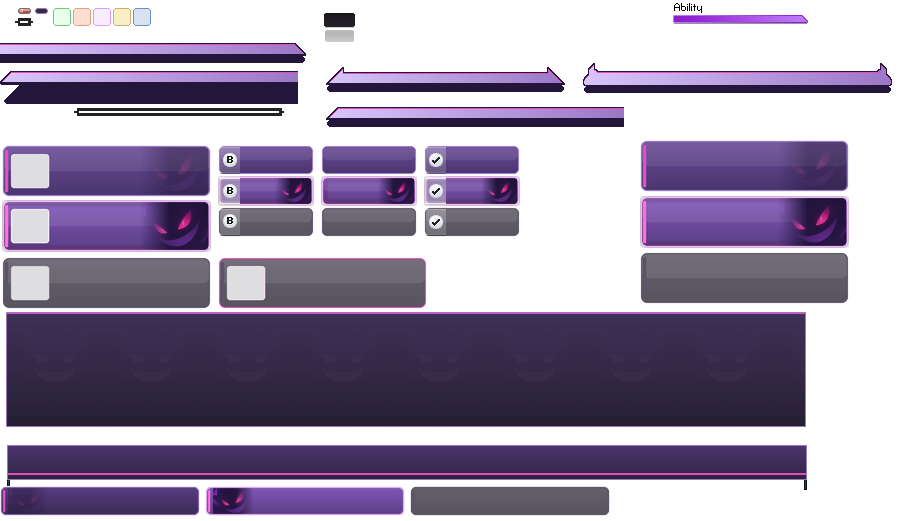
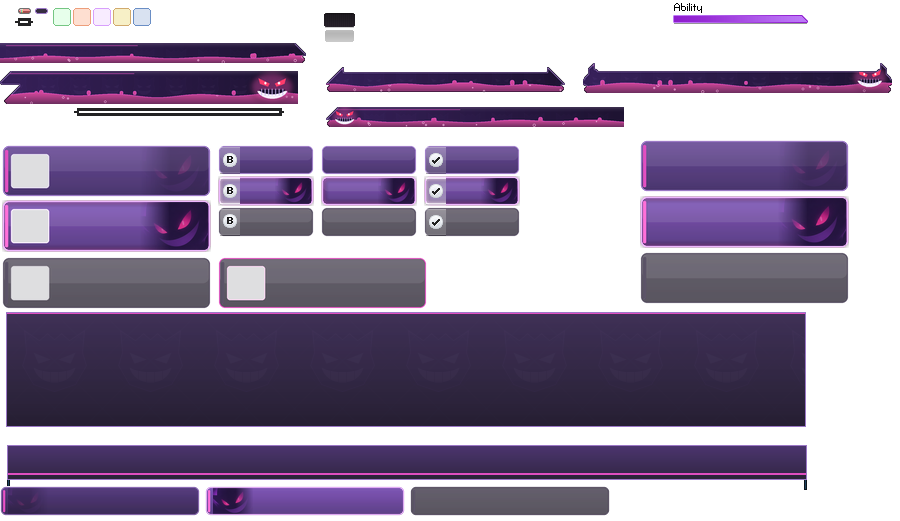
style: Rediseña los paneles de combate

Changed region(s): [[0.0, 0.0614, 0.9956, 0.2457]]

diff --git a/herramientas/battle_plates.py b/herramientas/battle_plates.py
@@ -1,0 +1,161 @@
+import sys
+import math
+import random
+from PIL import Image, ImageDraw, ImageFilter
+
+base_src, dst = sys.argv[1], sys.argv[2]
+pattern_src = sys.argv[3] if len(sys.argv) > 3 else None
+
+base = Image.open(base_src).convert("RGBA")
+im = Image.open(dst).convert("RGBA")
+pat = Image.open(pattern_src).convert("RGBA") if pattern_src else None
+
+
+def hx(h, a=255):
+    h = h.lstrip("#")
+    return (int(h[0:2], 16), int(h[2:4], 16), int(h[4:6], 16), a)
+
+
+def lerp(c1, c2, t):
+    t = max(0.0, min(1.0, t))
+    return tuple(int(c1[i] + (c2[i] - c1[i]) * t) for i in range(4))
+
+
+BODY_A = hx("#3A2160")
+BODY_B = hx("#1E1233")
+GOO_A = hx("#D0479A")
+GOO_B = hx("#6B2E5E")
+LILAC = hx("#9B78C6")
+LINE = hx("#E04EC0")
+OUT = hx("#120A1E")
+
+
+def split_row(reg):
+    w, h = reg.size
+    px = reg.load()
+    best = h
+    for j in range(h):
+        lights = sum(1 for i in range(w) if px[i, j][3] > 0 and max(px[i, j][:3]) > 150)
+        if j > 2 and lights < w * 0.25:
+            best = j
+            break
+    return best
+
+
+def draw_face(d, cx, cy, s):
+    e = s * 0.30
+    d.polygon([(cx - s * 0.62, cy - s * 0.30), (cx - s * 0.12, cy - s * 0.06), (cx - s * 0.20, cy + s * 0.08), (cx - s * 0.55, cy - s * 0.05)], fill=hx("#FF3B6B"))
+    d.polygon([(cx + s * 0.62, cy - s * 0.30), (cx + s * 0.12, cy - s * 0.06), (cx + s * 0.20, cy + s * 0.08), (cx + s * 0.55, cy - s * 0.05)], fill=hx("#FF3B6B"))
+    d.ellipse([cx - s * 0.36, cy - s * 0.14, cx - s * 0.26, cy - s * 0.02], fill=hx("#FFE3F0"))
+    d.ellipse([cx + s * 0.26, cy - s * 0.14, cx + s * 0.36, cy - s * 0.02], fill=hx("#FFE3F0"))
+    d.chord([cx - s * 0.70, cy - s * 0.30, cx + s * 0.70, cy + s * 0.62], 15, 165, fill=hx("#F6F0FF"))
+    d.chord([cx - s * 0.62, cy - s * 0.10, cx + s * 0.62, cy + s * 0.42], 15, 165, fill=hx("#1E1233"))
+    for k in range(-3, 4):
+        tx = cx + k * s * 0.16
+        d.line([(tx, cy + s * 0.18), (tx, cy + s * 0.48)], fill=hx("#C9B8F0"), width=max(1, int(s * 0.04)))
+
+
+def plate(box, face=None, seed=1):
+    x, y, w, h = box
+    reg = base.crop((x, y, x + w, y + h))
+    alpha = reg.getchannel("A").point(lambda a: 255 if a > 0 else 0)
+    rnd = random.Random(seed)
+    S = 4
+    W, H = w * S, h * S
+    mask = alpha.resize((W, H), Image.NEAREST)
+    bb = alpha.getbbox()
+    top_px, bot_px = bb[1], bb[3]
+    gh = max(4, int((bot_px - top_px) * 0.36))
+
+    body = Image.new("RGBA", (W, H))
+    bdr = ImageDraw.Draw(body)
+    for i in range(W):
+        bdr.line([(i, 0), (i, H)], fill=lerp(BODY_A, BODY_B, i / (W - 1)))
+    if pat:
+        tile = pat.resize((pat.width * S // 3, pat.height * S // 3), Image.BICUBIC)
+        tile.putalpha(tile.getchannel("A").point(lambda a: int(a * 0.14)))
+        for tx in range(0, W, tile.width):
+            for ty in range(0, H, tile.height):
+                body.alpha_composite(tile, (tx, ty))
+    shine = Image.new("RGBA", (W, H), (0, 0, 0, 0))
+    sd = ImageDraw.Draw(shine)
+    for j in range(top_px * S, top_px * S + 6 * S):
+        t = (j - top_px * S) / (6 * S)
+        sd.line([(0, j), (W, j)], fill=(255, 225, 255, int(40 * (1 - t) ** 2)))
+    body.alpha_composite(shine)
+
+    goo_mask = Image.new("L", (W, H), 0)
+    gd = ImageDraw.Draw(goo_mask)
+    base_y = (bot_px - gh) * S
+    amp = gh * S * 0.45
+    phase = rnd.random() * 6.28
+    pts = [(0, H)]
+    for i in range(0, W + 1, 2):
+        t = i / W
+        v = math.sin(t * 23 + phase) * 0.55 + math.sin(t * 8.1 + phase * 1.7) * 0.45
+        pts.append((i, base_y + amp * 0.5 + v * amp * 0.5))
+    pts.append((W, H))
+    gd.polygon(pts, fill=255)
+    for _ in range(max(3, w // 40)):
+        cx = rnd.randint(int(W * 0.04), int(W * 0.96))
+        r = rnd.uniform(1.0, 1.7) * S
+        gd.ellipse([cx - r, base_y - r * 1.4, cx + r, base_y + r * 1.2], fill=255)
+    goo_mask = Image.composite(goo_mask, Image.new("L", (W, H), 0), mask)
+
+    gooimg = Image.new("RGBA", (W, H))
+    gdr = ImageDraw.Draw(gooimg)
+    for j in range(H):
+        gdr.line([(0, j), (W, j)], fill=lerp(GOO_A, GOO_B, (j - base_y) / max(1, H - base_y)))
+    for _ in range(max(4, w // 28)):
+        cx = rnd.randint(0, W)
+        cy = rnd.randint(int(base_y + S), H - S)
+        r = rnd.uniform(0.7, 1.4) * S
+        gdr.ellipse([cx - r, cy - r, cx + r, cy + r], outline=(255, 190, 236, 190), width=max(1, S // 2))
+    gooedge = goo_mask.filter(ImageFilter.MaxFilter(5))
+    rim = Image.composite(Image.new("L", (W, H), 255), Image.new("L", (W, H), 0), Image.eval(goo_mask, lambda a: 255 - a))
+    rim = Image.composite(gooedge, Image.new("L", (W, H), 0), rim)
+    rim = Image.composite(rim, Image.new("L", (W, H), 0), mask)
+
+    final = Image.new("RGBA", (W, H), (0, 0, 0, 0))
+    final.paste(Image.new("RGBA", (W, H), OUT), (0, 0), mask)
+    inner = mask.filter(ImageFilter.MinFilter(5))
+    final.paste(Image.new("RGBA", (W, H), LILAC), (0, 0), Image.composite(Image.new("L", (W, H), 255), Image.new("L", (W, H), 0), inner))
+    inner2 = mask.filter(ImageFilter.MinFilter(9))
+    final.paste(body, (0, 0), inner2)
+    final.paste(Image.new("RGBA", (W, H), LINE), (0, 0), Image.composite(rim, Image.new("L", (W, H), 0), inner))
+    final.paste(gooimg, (0, 0), Image.composite(goo_mask, Image.new("L", (W, H), 0), inner))
+    acc = Image.new("RGBA", (W, H), (0, 0, 0, 0))
+    ld = ImageDraw.Draw(acc)
+    ld.line([(S * 6, top_px * S + int(S * 2.6)), (W * 0.45, top_px * S + int(S * 2.6))], fill=hx("#E04EC0", 170), width=S // 2 + 1)
+    acc.putalpha(Image.composite(acc.getchannel("A"), Image.new("L", (W, H), 0), inner2))
+    final.alpha_composite(acc)
+
+    if face:
+        side, size = face
+        fs_ = size * S
+        cx = W - fs_ * 0.9 - S * 6 if side == "r" else fs_ * 0.9 + S * 6
+        cy = (top_px + (bot_px - top_px) * 0.42) * S
+        glow = Image.new("RGBA", (W, H), (0, 0, 0, 0))
+        gl = ImageDraw.Draw(glow)
+        gl.ellipse([cx - fs_ * 1.0, cy - fs_ * 0.6, cx + fs_ * 1.0, cy + fs_ * 0.8], fill=(208, 71, 154, 110))
+        glow = glow.filter(ImageFilter.GaussianBlur(S * 3))
+        glow.putalpha(Image.composite(glow.getchannel("A"), Image.new("L", (W, H), 0), inner2))
+        final.alpha_composite(glow)
+        fl = Image.new("RGBA", (W, H), (0, 0, 0, 0))
+        draw_face(ImageDraw.Draw(fl), cx, cy, fs_)
+        fl.putalpha(Image.composite(fl.getchannel("A"), Image.new("L", (W, H), 0), inner2))
+        final.alpha_composite(fl)
+
+    small = final.resize((w, h), Image.LANCZOS)
+    small.putalpha(small.getchannel("A").point(lambda v: 0 if v < 20 else min(255, int(v * 1.1))))
+    im.paste(Image.new("RGBA", (w, h), (0, 0, 0, 0)), (x, y))
+    im.alpha_composite(small, (x, y))
+
+
+plate((0, 43, 306, 20), seed=3)
+plate((326, 65, 239, 28), seed=5)
+plate((0, 71, 298, 33), face=("r", 22), seed=7)
+plate((326, 107, 298, 20), face=("l", 14), seed=11)
+plate((583, 63, 309, 30), face=("r", 18), seed=13)
+
+im.save(dst, optimize=True)
